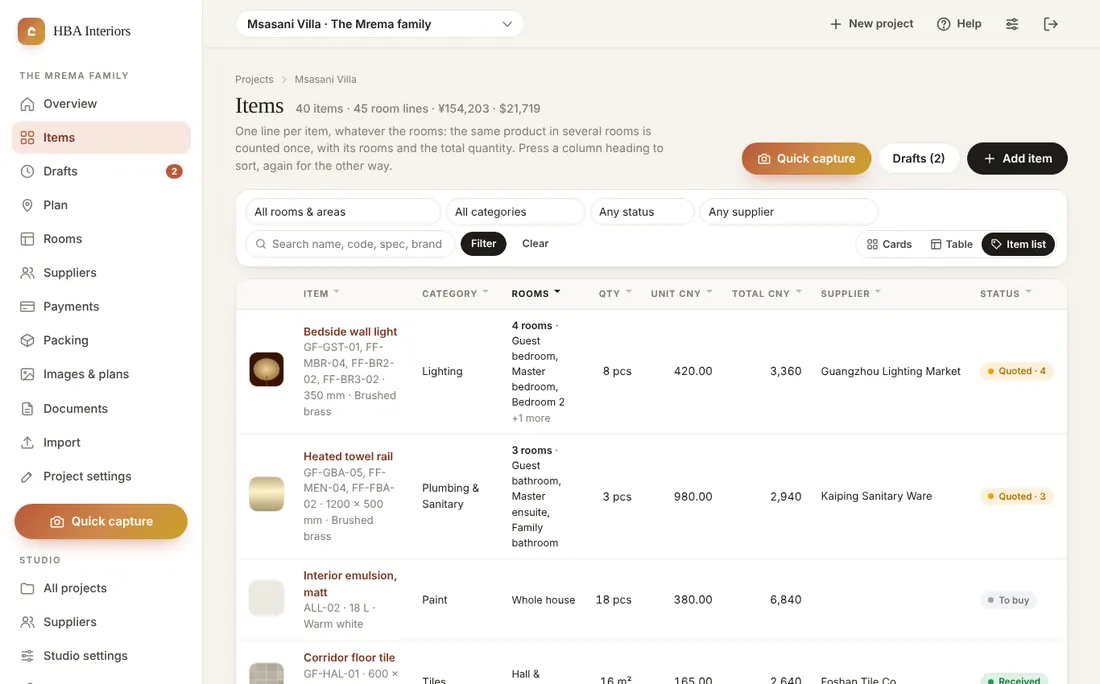
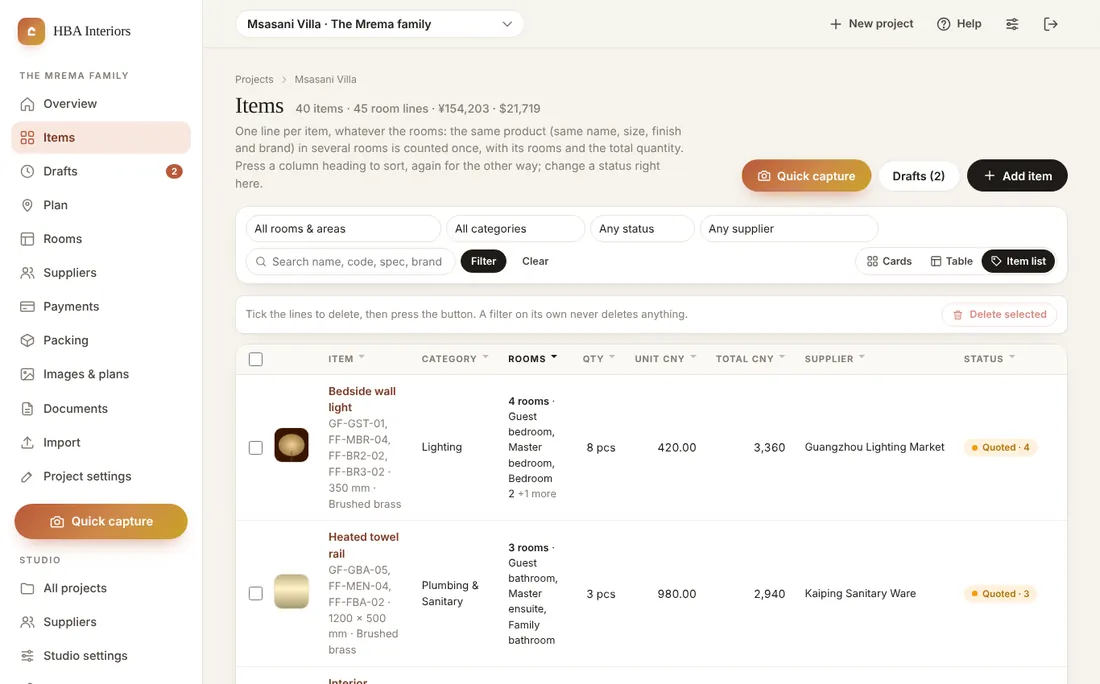
Items page: delete only what the user ticks, never straight from a filter
The "Delete these N items" button that appeared as soon as a filter was set
is gone. Every line on the Items page now carries a box (Table and Item list
rows, a Select box on each card; the header box ticks all shown, shift-click
a range), and a bar above the list counts the ticks, says how many of those
have photos (with "Untick the ones with photos") and carries Delete selected,
disabled until something is ticked. The confirmation is written from the live
count. In the Item list one box stands for the product in all its rooms.

POST /p/<id>/items/delete-selected replaces delete-filtered: it takes the
ticked ids, keeps to this project's live items, ignores anything else, and
goes straight back when nothing is ticked. Help, README, CLAUDE.md, the help
pictures (plus a new one showing two ticked lines) and the tests follow.

Claude-Session: https://claude.ai/code/session_014dEEg4ZJoqKU3XFXeCpon9

diff --git a/ffe/app/templates/items/list.html b/ffe/app/templates/items/list.html
@@ -37,14 +37,15 @@
     <a href="/p/{{ p.id }}/items?{{ qs_ }}view=list" class="{{ 'on' if view == 'list' }}"{% if view == 'list' %} aria-current="page"{% endif %} title="One line per item across its rooms"><svg class="ic"><use href="#i-tag"/></svg>Item list</a>
   </nav>
 </form>
-{% if filtering and items %}
-<form method="post" action="/p/{{ p.id }}/items/delete-filtered" class="row mb bulk-delete" data-confirm="Delete these {{ items|length }} item{{ 's' if items|length != 1 }}? Their photos and plan dots go with them. Everything outside this filter stays.">
+{% if items %}
+<form method="post" id="bulk" action="/p/{{ p.id }}/items/delete-selected" class="select-bar" data-confirm="Delete the ticked items? Their photos and plan dots go with them; everything not ticked stays.">
   {% for k in ['room', 'category', 'status', 'supplier', 'q'] %}{% if f[k] %}<input type="hidden" name="{{ k }}" value="{{ f[k] }}">{% endif %}{% endfor %}
   {% if view != 'list' %}<input type="hidden" name="view" value="{{ view }}">{% endif %}
-  {% set with_photos = items|selectattr('photos')|list|length %}
-  <span class="small muted">This filter shows {{ items|length }} room line{{ 's' if items|length != 1 }}{% if with_photos %}, {{ with_photos }} with photos{% endif %}.</span>
-  {% if with_photos %}<label class="check small"><input type="checkbox" name="keep_photos" value="1" checked> Keep the {{ with_photos }} with photos</label>{% endif %}
-  <button class="btn sm danger"><svg class="ic"><use href="#i-trash"/></svg>Delete these {{ items|length }} item{{ 's' if items|length != 1 }}</button>
+  {% if view == 'cards' %}<label class="check"><input type="checkbox" class="sel-all" aria-label="Select all shown"> All shown</label>{% endif %}
+  <span class="count small muted">Tick the lines to delete, then press the button. A filter on its own never deletes anything.</span>
+  <button type="button" class="btn sm ghost unphoto" hidden>Untick the ones with photos</button>
+  <button type="button" class="btn sm ghost clear" hidden>Clear</button>
+  <button class="btn sm danger"><svg class="ic"><use href="#i-trash"/></svg><span class="lbl">Delete selected</span></button>
 </form>
 {% endif %}
 
@@ -77,10 +78,11 @@
 
 {% elif view == 'table' %}
 <div class="tbl"><table class="sortable">
-  <thead><tr><th></th><th data-sort="text">Code</th><th data-sort="text">Item</th><th data-sort="text">Room</th><th data-sort="text">Category</th><th class="num" data-sort="num">Qty</th><th class="num" data-sort="num">Unit CNY</th><th class="num" data-sort="num">Total CNY</th><th data-sort="text">Supplier</th><th data-sort="num">Status</th></tr></thead>
+  <thead><tr><th class="sel"><label><input type="checkbox" class="sel-all" aria-label="Select all shown" title="Select all shown"></label></th><th></th><th data-sort="text">Code</th><th data-sort="text">Item</th><th data-sort="text">Room</th><th data-sort="text">Category</th><th class="num" data-sort="num">Qty</th><th class="num" data-sort="num">Unit CNY</th><th class="num" data-sort="num">Total CNY</th><th data-sort="text">Supplier</th><th data-sort="num">Status</th></tr></thead>
   <tbody>
   {% for i in items %}
   <tr id="item-{{ i.id }}">
+    <td class="sel"><label><input type="checkbox" class="sel-box" name="ids" value="{{ i.id }}" form="bulk"{% if i.photos %} data-photos="1"{% endif %} aria-label="Select {{ i.code }}"></label></td>
     <td>{% if i.cover %}<a href="/p/{{ p.id }}/items/{{ i.id }}"><img class="thumb sm" src="/media/{{ i.cover.thumb }}" alt=""></a>{% endif %}</td>
     <td class="small muted nowrap">{{ i.code }}</td>
     <td data-v="{{ i.name }}"><a class="b" href="/p/{{ p.id }}/items/{{ i.id }}">{{ i.name }}</a>{% if i.optional %} <span class="pill">optional</span>{% endif %}{% if i.size or i.finish %}<div class="small muted">{{ i.size }}{% if i.size and i.finish %} · {% endif %}{{ i.finish }}</div>{% endif %}</td>
@@ -98,10 +100,12 @@
 
 {% elif view == 'list' %}
 <div class="tbl"><table class="sortable">
-  <thead><tr><th></th><th data-sort="text">Item</th><th data-sort="text">Category</th><th data-sort="num">Rooms</th><th class="num" data-sort="num">Qty</th><th class="num" data-sort="num">Unit CNY</th><th class="num" data-sort="num">Total CNY</th><th data-sort="text">Supplier</th><th data-sort="num">Status</th></tr></thead>
+  <thead><tr><th class="sel"><label><input type="checkbox" class="sel-all" aria-label="Select all shown" title="Select all shown"></label></th><th></th><th data-sort="text">Item</th><th data-sort="text">Category</th><th data-sort="num">Rooms</th><th class="num" data-sort="num">Qty</th><th class="num" data-sort="num">Unit CNY</th><th class="num" data-sort="num">Total CNY</th><th data-sort="text">Supplier</th><th data-sort="num">Status</th></tr></thead>
   <tbody>
   {% for g in rows %}{% set i = g.item %}
+  {% set with_photos = g.rows|selectattr('photos')|list|length %}
   <tr id="item-{{ i.id }}" data-items="{% for r in g.rows %}{{ r.id }}{% if not loop.last %} {% endif %}{% endfor %}">
+    <td class="sel"><label><input type="checkbox" class="sel-box" name="ids" value="{% for r in g.rows %}{{ r.id }}{% if not loop.last %} {% endif %}{% endfor %}" form="bulk"{% if with_photos %} data-photos="{{ with_photos }}"{% endif %} aria-label="Select {{ i.name }}"></label></td>
     <td>{% if g.cover %}<a href="/p/{{ p.id }}/items/{{ i.id }}"><img class="thumb sm" src="/media/{{ g.cover.thumb }}" alt=""></a>{% endif %}</td>
     <td data-v="{{ i.name }}"><a class="b" href="/p/{{ p.id }}/items/{{ i.id }}">{{ i.name }}</a>{% if i.optional %} <span class="pill">optional</span>{% endif %}<div class="small muted">{{ g.codes }}{% for v in [i.size, i.finish, i.brand]|select %} · {{ v }}{% endfor %}</div></td>
     <td class="small">{{ i.category }}</td>
@@ -140,6 +144,7 @@
       <div class="foot">
         <select class="status-sel" data-url="/p/{{ p.id }}/items/{{ i.id }}/status" style="--c:{{ STATUS_COLORS[i.status] }}" aria-label="Status">{% for st in STATUSES %}<option {{ 'selected' if i.status == st }}>{{ st }}</option>{% endfor %}</select>
         {% if i.optional %}<span class="pill">optional</span>{% endif %}
+        <label class="sel"><input type="checkbox" class="sel-box" name="ids" value="{{ i.id }}" form="bulk"{% if i.photos %} data-photos="1"{% endif %}> Select</label>
       </div>
     </div>
   </div>

diff --git a/ffe/app/static/app.js b/ffe/app/static/app.js
@@ -264,6 +264,50 @@
   });
 })();
 
+// Delete by selection on the Items page. Nothing goes straight from a filter: the user ticks lines (td.sel in the Table and
+// the Item list, the Select box on a card), the bar above the list (form.select-bar) counts them, and its Delete button
+// takes the count and stays disabled until something is ticked. A box in the Item list carries every room line of its
+// product ("12 13 14"); data-photos counts the lines with photos, so the bar can untick them in one press. The header
+// box ticks all shown; shift-click ticks a range. The confirmation text is rewritten from the live count, so the dialog
+// (data-confirm, read at submit time) always says what goes.
+(function () {
+  var bar = document.querySelector('form.select-bar'); if (!bar) return;
+  var boxes = [].slice.call(document.querySelectorAll('input.sel-box')), masters = [].slice.call(document.querySelectorAll('input.sel-all'));
+  var count = bar.querySelector('.count'), hint = count.textContent, lbl = bar.querySelector('.lbl'), go = bar.querySelector('button.danger');
+  var unphoto = bar.querySelector('.unphoto'), clear = bar.querySelector('.clear'), last = null;
+  function plural(n, word) { return n + ' ' + word + (n === 1 ? '' : 's'); }
+  function refresh() {
+    var n = 0, lines = 0, photos = 0;
+    boxes.forEach(function (b) {
+      var row = b.closest('tr, .item-card'); if (row) row.classList.toggle('selected', b.checked);
+      if (!b.checked) return;
+      n++; lines += b.value.split(' ').length; photos += parseInt(b.dataset.photos || '0', 10) || 0;
+    });
+    bar.classList.toggle('has-sel', n > 0);
+    go.disabled = n === 0;
+    lbl.textContent = n ? 'Delete ' + plural(n, 'item') : 'Delete selected';
+    count.textContent = n ? plural(n, 'item') + ' selected' + (lines !== n ? ' · ' + plural(lines, 'room line') : '') + (photos ? ' · ' + photos + ' with photos' : '') : hint;
+    unphoto.hidden = !photos; clear.hidden = !n;
+    masters.forEach(function (m) { m.checked = n > 0 && n === boxes.length; m.indeterminate = n > 0 && n < boxes.length; });
+    var ph = !photos ? '' : lines === 1 ? 'It has photos. ' : photos === lines ? 'All of them have photos. ' : photos === 1 ? 'One of them has photos. ' : photos + ' of them have photos. ';
+    bar.dataset.confirm = 'Delete ' + plural(n, 'item') + (lines !== n ? ' (' + plural(lines, 'room line') + ')' : '') + '? ' + ph + 'Their photos and plan dots go with them; everything not ticked stays.';
+  }
+  masters.forEach(function (m) { m.addEventListener('change', function () { boxes.forEach(function (b) { b.checked = m.checked; }); refresh(); }); });
+  boxes.forEach(function (b) {
+    b.addEventListener('click', function (e) {
+      if (e.shiftKey && last && last !== b) {  // shift-click: the whole range since the last box clicked follows this one
+        var i = boxes.indexOf(last), j = boxes.indexOf(b);
+        boxes.slice(Math.min(i, j), Math.max(i, j) + 1).forEach(function (x) { x.checked = b.checked; });
+      }
+      last = b; refresh();
+    });
+  });
+  unphoto.addEventListener('click', function () { boxes.forEach(function (b) { if (b.dataset.photos) b.checked = false; }); refresh(); });
+  clear.addEventListener('click', function () { boxes.forEach(function (b) { b.checked = false; }); refresh(); });
+  window.addEventListener('pageshow', refresh);  // the browser may bring ticks back on Back
+  refresh();
+})();
+
 // "Help for this page": the ? button in the top bar opens a drawer with the steps for this page (base.html, help_tips.py).
 // A one-time nudge points at the button the first time a page is seen; #help in the address opens the drawer.
 (function () {

diff --git a/ffe/app/templates/help.html b/ffe/app/templates/help.html
@@ -363,7 +363,7 @@
   <h3>The list</h3>
   <ul>
     <li>Filter by room or area, category, status, supplier or a search word (name, code, spec, brand). A dropdown applies as soon as you pick; the <b>Filter</b> button (or Enter) is for the search box. Three views, all keeping the filters: the <b>Item list</b> (the page opens on it) shows one line per item whatever the rooms: the same product in several rooms is counted once, with its rooms, the total quantity and value, its suppliers and a count per status (an item in one room has the status dropdown right there); <b>Table</b> is the compact sheet, one line per room, with the status dropdown; <b>Cards</b> groups by category with photos.</li>
-    <li><b>Delete these items.</b> With a filter on, a button under the filters deletes every line the filter shows, plan dots included, after a confirmation. Lines that have photos are kept unless you untick <b>Keep the ones with photos</b>, so a picture never goes by accident. Use it to clear a category or a search result before importing it again; without a filter the button does not appear, so the whole schedule can never go in one press.</li>
+    <li><b>Delete selected.</b> Tick the lines to delete (a box per line in the Table and the Item list, <b>Select</b> on a card; the box at the top of the table ticks all shown, and shift-click ticks a range), then press <b>Delete selected</b> in the bar above the list. The bar counts the ticks and says how many of them have photos, with <b>Untick the ones with photos</b> to spare those in one press; the confirmation repeats the count before anything goes, plan dots included. In the Item list one box stands for the product in all its rooms. A filter only narrows what you see: it never deletes anything on its own, so to clear a category before importing it again, filter by it, tick all shown and press the button.</li>
     <li><b>Sorting.</b> In the Table and the Item list, press a column heading to sort: text A to Z, numbers smallest first, Status in purchase order (To buy first), Rooms by how many. Press the heading again for the other way; blank cells go last.</li>
     <li>Filtered by one room, the top of the list shows that room <b>zoomed in on its plan</b> with a numbered dot per placed item. Tap a dot to jump to the item; tap the picture to open the plan. Rooms not yet marked show a link to mark them.</li>
     <li><b>Quick capture</b> and <b>Add item</b> from here keep the current room and category.</li>
@@ -371,6 +371,7 @@
   <div class="shots">
     {{ shot('items-table', 'Table view, filtered by category: the compact sheet with a status dropdown per row. Press a heading to sort.') }}
     {{ shot('items-list', 'Item list, sorted by rooms: the same product in several rooms is one line, with its rooms, the total quantity and a count per status.') }}
+    {{ shot('items-select', 'Two lines ticked: the bar counts them and its button says how many go. Nothing is deleted until you press it and confirm.') }}
     {{ shot('phone-items', 'The same room filter on a phone: the zoomed room first, then the item list.', 'phone') }}
   </div>
   <h3>Editing an item</h3>

diff --git a/ffe/app/static/app.css b/ffe/app/static/app.css
@@ -206,6 +206,20 @@ td.nowrap{white-space:nowrap}
 /* the page picker: the Shows select gets a label of its own, so main plan vs layer is a visible choice */
 .pages .page .shows{display:grid;gap:4px}
 .pages .page .shows label{font-size:.7rem;font-weight:700;letter-spacing:.06em;text-transform:uppercase;color:var(--muted)}
+/* delete by selection (Items page, app.js): a box per line in the Table and Item list (td.sel), a Select box on each card; the bar
+   above the list counts the ticks, its Delete button takes the count, and the bar sticks under the top bar while something is ticked */
+.select-bar{display:flex;gap:10px;align-items:center;flex-wrap:wrap;padding:8px 12px;margin-bottom:12px;border:1px solid var(--line);border-radius:var(--r-sm);background:var(--surface);box-shadow:var(--sh-1);font-size:.86rem}
+.select-bar.has-sel{position:sticky;top:calc(var(--top-h) + 8px);z-index:20;border-color:var(--accent);box-shadow:var(--sh-2)}
+.select-bar.has-sel .count{color:var(--ink);font-weight:600}
+.select-bar label.check{margin:0;font-size:.86rem}
+.btn[hidden]{display:none}  /* the class sets display, so the attribute alone would not hide a button */
+.select-bar .count{flex:1;min-width:180px}
+td.sel,th.sel{width:1%;padding-right:2px}
+td.sel label,th.sel label{display:flex;align-items:center;margin:-10px -6px;padding:10px 6px;cursor:pointer}
+td.sel input,th.sel input{margin:0}
+tr.selected td,tbody tr.selected:hover td{background:var(--accent-soft)}
+.item-card.selected{border-color:var(--accent);box-shadow:0 0 0 2px var(--accent-soft)}
+.item-card .foot label.sel{display:flex;align-items:center;gap:6px;font-size:.8rem;color:var(--muted);cursor:pointer;margin-left:auto}
 /* sortable tables (app.js): a header with data-sort is a button; the small arrow shows the current order */
 table.sortable th[data-sort]{cursor:pointer;user-select:none}
 table.sortable th[data-sort]:hover,table.sortable th[aria-sort]{color:var(--ink)}

diff --git a/ffe/tools/help_shots.js b/ffe/tools/help_shots.js
@@ -21,6 +21,7 @@ const DESKTOP = [
   ['items', `/p/${pid}/items?room=${kit}`],
   ['items-table', `/p/${pid}/items?view=table&category=Tiles`],
   ['items-list', `/p/${pid}/items?view=list`, async p => { await p.click('th[data-sort]:has-text("Rooms")'); await p.click('th[data-sort]:has-text("Rooms")'); await p.waitForTimeout(200); }],
+  ['items-select', `/p/${pid}/items?view=table&category=Tiles`, async p => { await p.locator('input.sel-box').nth(0).check(); await p.locator('input.sel-box').nth(2).check(); await p.waitForTimeout(200); }],
   ['item-new', `/p/${pid}/items/new?room=${liv}`],
   ['item-edit', `/p/${pid}/items/${ids.sofa}`],
   ['suppliers', `/p/${pid}/suppliers`],

diff --git a/ffe/tests/test_flow.py b/ffe/tests/test_flow.py
@@ -1040,22 +1040,30 @@ with TestClient(app) as c:
         r=c.get(f"/p/{pid_big}/export/schedule.pdf{q}"); assert r.status_code==200 and r.headers["content-type"]=="application/pdf", (q, r.status_code, r.text[:300])
     tb=pdf_text(c.get(f"/p/{pid_big}/export/schedule.pdf?layout=floor").content); assert tb.count("R69 - Room number 69")>=1 and "Grand total" in tb
     print("big project summary ok")
-    # delete by filter: everything the filter shows goes (photos too), nothing else; no filter = nothing happens
+    # delete by selection: the user ticks lines and presses Delete selected; a filter on its own never deletes anything.
+    # An Item list box carries every room line of its product; other projects' ids, drafts and junk are ignored
     r=c.post(f"/p/{pid_big}/items/new", data={"room_ids":[big_rids[0]],"category":"Tiles","name":"Floor tiles","qty":"10","unit":"m²","status":"To buy"}, follow_redirects=False); keep_id=int(r.headers["location"].rstrip("/").split("/")[-1])
-    db=SessionLocal(); first=db.query(Item).filter(Item.project_id==int(pid_big), Item.category=="Lighting").first(); first_id=first.id; db.close()
+    db=SessionLocal(); first=db.query(Item).filter(Item.project_id==int(pid_big), Item.category=="Lighting").first(); first_id=first.id; other_id=db.query(Item).filter(Item.project_id!=int(pid_big), Item.draft==False).first().id; db.close()
     c.post(f"/p/{pid_big}/items/{first_id}", data={"room_id":big_rids[0],"category":"Lighting","name":"Pendant light","qty":"2","unit":"pcs","status":"To buy"}, files={"photos":("p.jpg",img("pink"),"image/jpeg")}, follow_redirects=False)
     db=SessionLocal(); ph_key=db.get(Item,first_id).photos[0].file_key; db.close(); assert _st.read_image(ph_key) is not None
-    h=c.get(f"/p/{pid_big}/items?category=Lighting").text; assert "Delete these 71 items" in h and 'data-confirm="Delete these 71 items?' in h and 'name="category" value="Lighting"' in h and "1 with photos" in h and 'name="keep_photos" value="1" checked' in h
-    assert "bulk-delete" not in c.get(f"/p/{pid_big}/items").text  # no filter, no button
-    r=c.post(f"/p/{pid_big}/items/delete-filtered", data={}, follow_redirects=False); assert r.status_code==303 and "deleted" not in r.headers["location"]
+    h=c.get(f"/p/{pid_big}/items?category=Lighting&view=table").text
+    assert 'id="bulk"' in h and f'action="/p/{pid_big}/items/delete-selected"' in h and h.count('class="sel-box" name="ids"')==71 and f'name="ids" value="{first_id}" form="bulk" data-photos="1"' in h, h[:200]
+    assert 'name="category" value="Lighting"' in h and 'name="view" value="table"' in h and "Delete selected" in h and "delete-filtered" not in h and h.count('class="sel-all"')==1
+    h=c.get(f"/p/{pid_big}/items?category=Lighting").text  # the Item list: one box per product, carrying all its room lines
+    m=re.search(r'name="ids" value="([\d ]+)" form="bulk" data-photos="1"', h); assert m and len(m.group(1).split())==71 and h.count('class="sel-box"')==1, h.count('class="sel-box"')
+    assert c.get(f"/p/{pid_big}/items?view=cards").text.count('class="sel-box"')==72 and 'id="bulk"' in c.get(f"/p/{pid_big}/items").text  # no filter needed: nothing goes without a tick
+    assert "bulk" not in c.get(f"/p/{pid_big}/items?category=Curtains").text  # nothing shown, no bar
+    r=c.post(f"/p/{pid_big}/items/delete-selected", data={"category":"Lighting"}, follow_redirects=False); assert r.status_code==303 and r.headers["location"]==f"/p/{pid_big}/items?category=Lighting", r.headers  # nothing ticked: nothing happens
     db=SessionLocal(); assert db.query(Item).filter(Item.project_id==int(pid_big)).count()==72; db.close()
-    r=c.post(f"/p/{pid_big}/items/delete-filtered", data={"category":"Lighting","keep_photos":"1"}, follow_redirects=False); assert r.status_code==303 and r.headers["location"].endswith("category=Lighting&deleted=70")
-    db=SessionLocal(); assert [i.id for i in db.query(Item).filter(Item.project_id==int(pid_big), Item.category=="Lighting").all()]==[first_id]; db.close()  # the one with the photo survived
-    assert _st.read_image(ph_key) is not None and 'name="keep_photos"' not in c.get(f"/p/{pid_big}/items?category=Tiles").text  # no photos in that filter: no box
-    r=c.post(f"/p/{pid_big}/items/delete-filtered", data={"category":"Lighting"}, follow_redirects=False); assert r.status_code==303 and r.headers["location"].endswith("category=Lighting&deleted=1")
+    others=[x for x in m.group(1).split() if int(x)!=first_id]
+    r=c.post(f"/p/{pid_big}/items/delete-selected", data={"ids":[" ".join(others[:30])]+others[30:]+[str(other_id),"abc"],"category":"Lighting","view":"table"}, follow_redirects=False)
+    assert r.status_code==303 and r.headers["location"]==f"/p/{pid_big}/items?category=Lighting&view=table&deleted=70", r.headers
+    db=SessionLocal(); assert [i.id for i in db.query(Item).filter(Item.project_id==int(pid_big), Item.category=="Lighting").all()]==[first_id] and db.get(Item,other_id) is not None; db.close()  # the unticked one (with the photo) and the other project's item survived
+    assert _st.read_image(ph_key) is not None
+    r=c.post(f"/p/{pid_big}/items/delete-selected", data={"ids":[str(first_id)],"category":"Lighting"}, follow_redirects=False); assert r.status_code==303 and r.headers["location"].endswith("category=Lighting&deleted=1")
     db=SessionLocal(); left=db.query(Item).filter(Item.project_id==int(pid_big)).all(); assert [i.id for i in left]==[keep_id]; db.close()
-    assert _st.read_image(ph_key) is None and "71 items deleted." in c.get(f"/p/{pid_big}/items?category=Lighting&deleted=71").text and "1 item deleted." in c.get(f"/p/{pid_big}/items?category=Lighting&deleted=1").text
-    print("delete by filter ok")
+    assert _st.read_image(ph_key) is None and "70 items deleted." in c.get(f"/p/{pid_big}/items?deleted=70").text and "1 item deleted." in c.get(f"/p/{pid_big}/items?category=Lighting&deleted=1").text
+    print("delete selected ok")
     # messages and confirmations are the app's own dialog (app.js appConfirm/appAlert, .modal), never the browser's system boxes
     import re as _re; from pathlib import Path
     for f in list(Path("app/templates").rglob("*.html")) + list(Path("app/static").glob("*.js")):

diff --git a/ffe/app/routers/items.py b/ffe/app/routers/items.py
@@ -83,22 +83,25 @@ def list_items(request: Request, p: Project = Depends(get_project), db: Session 
                   f=f, qs=qs, rows=rows, deleted=deleted)
 
 
-@router.post("/p/{project_id}/items/delete-filtered")
-def delete_filtered(p: Project = Depends(get_project), db: Session = Depends(get_db), room: str = Form(""), category: str = Form(""),
-                    status: str = Form(""), supplier: str = Form(""), q: str = Form(""), view: str = Form(""), keep_photos: str = Form("")):
-    """Deletes every item the Items page filter shows. At least one filter must be set: never the whole project in one
-    press. keep_photos=1 spares the lines that have a photo (a picture is work; a deleted one is gone for good). The
-    filter stays on the page afterwards so what is left can be checked."""
-    if not any([room, category, status, supplier, q.strip()]):
-        return redirect(f"/p/{p.id}/items")
-    items = [i for i in item_query(db, p, room, category, status, supplier, q).all() if not (keep_photos == "1" and i.photos)]
+@router.post("/p/{project_id}/items/delete-selected")
+def delete_selected(p: Project = Depends(get_project), db: Session = Depends(get_db), ids: list[str] = Form([]), room: str = Form(""),
+                    category: str = Form(""), status: str = Form(""), supplier: str = Form(""), q: str = Form(""), view: str = Form("")):
+    """Deletes the lines ticked on the Items page and nothing else: what goes is the user's own selection, never what a
+    filter happens to show. A box in the Item list stands for a product in all its rooms, so one value may carry several
+    ids ("12 13 14"). Ids outside this project, drafts (they live on /drafts) and anything that is not a number are
+    ignored. Photos go through storage, pins by cascade. The filter stays on the page afterwards so what is left can be
+    checked; nothing ticked = straight back, no message."""
+    wanted = {int(x) for v in ids for x in v.split() if x.isdigit()}
+    items = db.query(Item).filter(Item.project_id == p.id, Item.draft == False, Item.id.in_(wanted)).all() if wanted else []  # noqa: E712
     for i in items:
         for ph in i.photos:
             storage.delete_photo(ph)
         db.delete(i)
     db.commit()
-    keep = urlencode({k: v for k, v in dict(room=room, category=category, status=status, supplier=supplier, q=q, view=view).items() if v})
-    return redirect(f"/p/{p.id}/items?{keep}&deleted={len(items)}")
+    keep = {k: v for k, v in dict(room=room, category=category, status=status, supplier=supplier, q=q, view=view).items() if v}
+    if items:
+        keep["deleted"] = len(items)
+    return redirect(f"/p/{p.id}/items" + (f"?{urlencode(keep)}" if keep else ""))
 
 
 @router.get("/p/{project_id}/items/new")

diff --git a/ffe/app/help_tips.py b/ffe/app/help_tips.py
@@ -95,7 +95,7 @@ TIPS = {
                "Filter by room, category, status or supplier: the list updates as soon as you pick. For a search word, type it and press <b>Filter</b> or Enter. The page opens on the <b>Item list</b> (one line per item across its rooms, with its rooms and the total quantity); switch to the <b>Table</b> (one line per room) or <b>Cards</b> (by category, with photos) at the right of the filters.",
                "In the Table and the Item list, press a <b>column heading</b> to sort: A to Z or smallest first, press again for the other way.",
                "Filtered by one room, the top shows that room zoomed in on the plan; tap a dot to jump to its item.",
-               "With a filter on, <b>Delete these items</b> under the filters removes every line it shows after a confirmation, keeping the lines that have photos unless you untick that: handy to clear a category before importing it again."],
+               "To delete several at once, <b>tick</b> the lines (the box at the top of the Table or Item list ticks all shown) and press <b>Delete selected</b>; the bar says how many are ticked and how many of those have photos, and you confirm before anything goes. A filter on its own never deletes anything."],
         tips=["The status follows the purchase: To buy → Quoted → Ordered → Paid → Shipped → Received.",
               "The category decides which page of the client schedule the item prints on."]),
     "item_new": dict(

diff --git a/ffe/README.md b/ffe/README.md
@@ -10,7 +10,7 @@ same data, entered once.
 |---|---|
 | Projects | One per client project. USD/CNY rate, budget, delivery address, status. |
 | Rooms & areas | Codes (GF-KIT …) used on every item, box and label. Once an entry is marked on the plan, the Rooms page and the item list filtered by it show it **zoomed in on the plan** with its item dots (numbered like the item codes; a dot jumps to the item), and page one of its checklist PDF is that same zoomed view. Each entry is a **room** (a space you furnish) or an **area** (a zone that still carries items: entrance, corridors, stairs, balconies, carport, whole house); areas list after rooms and count separately ("10 rooms · 5 areas") on the Rooms page, the plan, the Overview and the PDFs. Kind is guessed from the name for entries the import creates (an existing entry keeps its kind unless the sheet has a Kind column) and for all entries on "Sort rooms & areas by name"; any entry can be switched. The Excel export writes the Kind column, so a re-import keeps hand-set kinds. Optional floor/wall areas for tiles. |
-| Items | Room, category (= schedule page), name, must-have spec, brand, size, finish, qty, unit price typed in **CNY or USD** (stored in CNY at the project's rate; a USD entry is remembered so the form shows it again), supplier, lead time, status (To buy → Quoted → Ordered → Paid → Shipped → Received), photos from the phone camera. The Items page filters apply as soon as a dropdown is picked (the Filter button serves the search box); it has three views that keep the filters: the **Item list** (the default: one line per product across its rooms, with rooms, total quantity and value, suppliers, a count per status, and the status dropdown for an item in one room), the **Table** (one line per room) and **Cards** by category. Table and Item list sort by any column heading (text A to Z, numbers smallest first, status in purchase order; again for the other way). With a filter on, **Delete these items** removes every line the filter shows after a confirmation (lines with photos are kept unless the box is unticked), e.g. to clear a category before importing it again; it never appears without a filter. |
+| Items | Room, category (= schedule page), name, must-have spec, brand, size, finish, qty, unit price typed in **CNY or USD** (stored in CNY at the project's rate; a USD entry is remembered so the form shows it again), supplier, lead time, status (To buy → Quoted → Ordered → Paid → Shipped → Received), photos from the phone camera. The Items page filters apply as soon as a dropdown is picked (the Filter button serves the search box); it has three views that keep the filters: the **Item list** (the default: one line per product across its rooms, with rooms, total quantity and value, suppliers, a count per status, and the status dropdown for an item in one room), the **Table** (one line per room) and **Cards** by category. Table and Item list sort by any column heading (text A to Z, numbers smallest first, status in purchase order; again for the other way). To delete several at once, tick the lines (a box per line; the header box ticks all shown) and press **Delete selected**: the bar counts the ticks and the lines with photos, and a confirmation repeats the count. A filter only narrows the view and never deletes anything on its own. |
 | Items in several rooms | A new item can be ticked into several rooms at once (quick-pick chips tick all bedrooms, all bathrooms, a floor, all rooms or all areas in one tap; `Room.group` reads bedroom / bathroom from the name or the code) (one line per room, each with its own code, qty and status; photos are copied to each). An item's page has a checklist of the rooms that have it: tick a room to copy the item there, untick one to take it out (that room's line is deleted, after a confirmation). The same product across rooms is recognised by its **name, size, colour/finish and brand together** (`items.product_key`; case, spacing and the x in a size do not matter): "Floor tiles" 1200x600 cream in twelve rooms is one product, the same name in 800x400 is another, so the Item list shows one line per variant and the name stays short ("Floor tiles", not the size or colour). The name, size, finish and brand fields suggest the values already used (this project first) so spelling stays consistent. Editing one line can apply the name, category, spec, size, finish, brand, price, unit, lead time and supplier to every room using it (qty, status, notes and photos stay per room); the box comes ticked while the other rooms' lines still match this one, unticked with a note of what differs when they were set up their own way. |
 | Quick capture | Photo-first entry for showrooms: the camera opens, every photo is saved at once as a **draft** item (room/category optional), keep shooting. Drafts are completed later on the Drafts page (name, room, category, qty, price → item code generated) or discarded. Drafts do not count in totals, PDFs, Excel or share links until they have a name. |
 | Save from web | Pictures from any website (supplier catalogue, Pinterest pin, Taobao, 1688): paste a picture or page link on the item form or the Mood board page, or use the **Save to HBA** button from `/clip` (iOS Share-sheet Shortcut or Safari bookmarklet; the page also has a Paste button and remembers the last project) to clip the page's main picture into a project as a draft item or a mood-board image. Pictures are downloaded server-side, shrunk and stored like uploads. |

diff --git a/ffe/CLAUDE.md b/ffe/CLAUDE.md
@@ -356,11 +356,16 @@ ALTER TABLE item_photos ADD COLUMN thumb_key VARCHAR(255) NOT NULL DEFAULT '';  
   the pricing note, Prepared by with the studio logo). Suppliers, notes and CNY are never printed (parity with the client link).
   `packing.py` still uses `common.py`; moving it to the theme is the next step of the redesign.
 
-- **Delete by filter.** `POST /p/<id>/items/delete-filtered` (routers/items.py) deletes every live item the Items page filter
-  shows (`item_query` with the same room / category / status / supplier / q), photos through `storage.delete_photo`, pins by
-  cascade; it refuses when no filter is set, and `keep_photos=1` (the form's box, ticked by default when any line has a photo)
-  spares the lines that have photos. The form sits under the filter bar (`filtering and items`), asks through
-  `data-confirm`, and redirects back to the same filter with `?deleted=N` for the message.
+- **Delete by selection.** `POST /p/<id>/items/delete-selected` (routers/items.py) deletes the ticked lines and nothing
+  else: `ids` form values (an Item list box carries every room line of its product, "12 13 14"), restricted to this
+  project's live items, photos through `storage.delete_photo`, pins by cascade; nothing ticked = straight back. The
+  Items page carries the boxes (`input.sel-box` in `td.sel` of the Table and Item list, the Select label in a card foot,
+  `form="bulk"` so they belong to the bar's form outside the table; `input.sel-all` in the table header or, for cards,
+  in the bar ticks all shown) and the bar `form.select-bar#bulk` above the list, whose Delete button app.js keeps
+  disabled until something is ticked, labels with the count and whose `data-confirm` it rewrites from the live count
+  (`question()` reads it at submit time); `data-photos` on a box counts its lines with photos for the "Untick the ones
+  with photos" button. The bar sticks under the top bar while something is ticked (`.has-sel`). A filter never deletes
+  anything on its own; the redirect keeps the filter and adds `?deleted=N` for the message.
 
 ## Backlog (in priority order)
 
